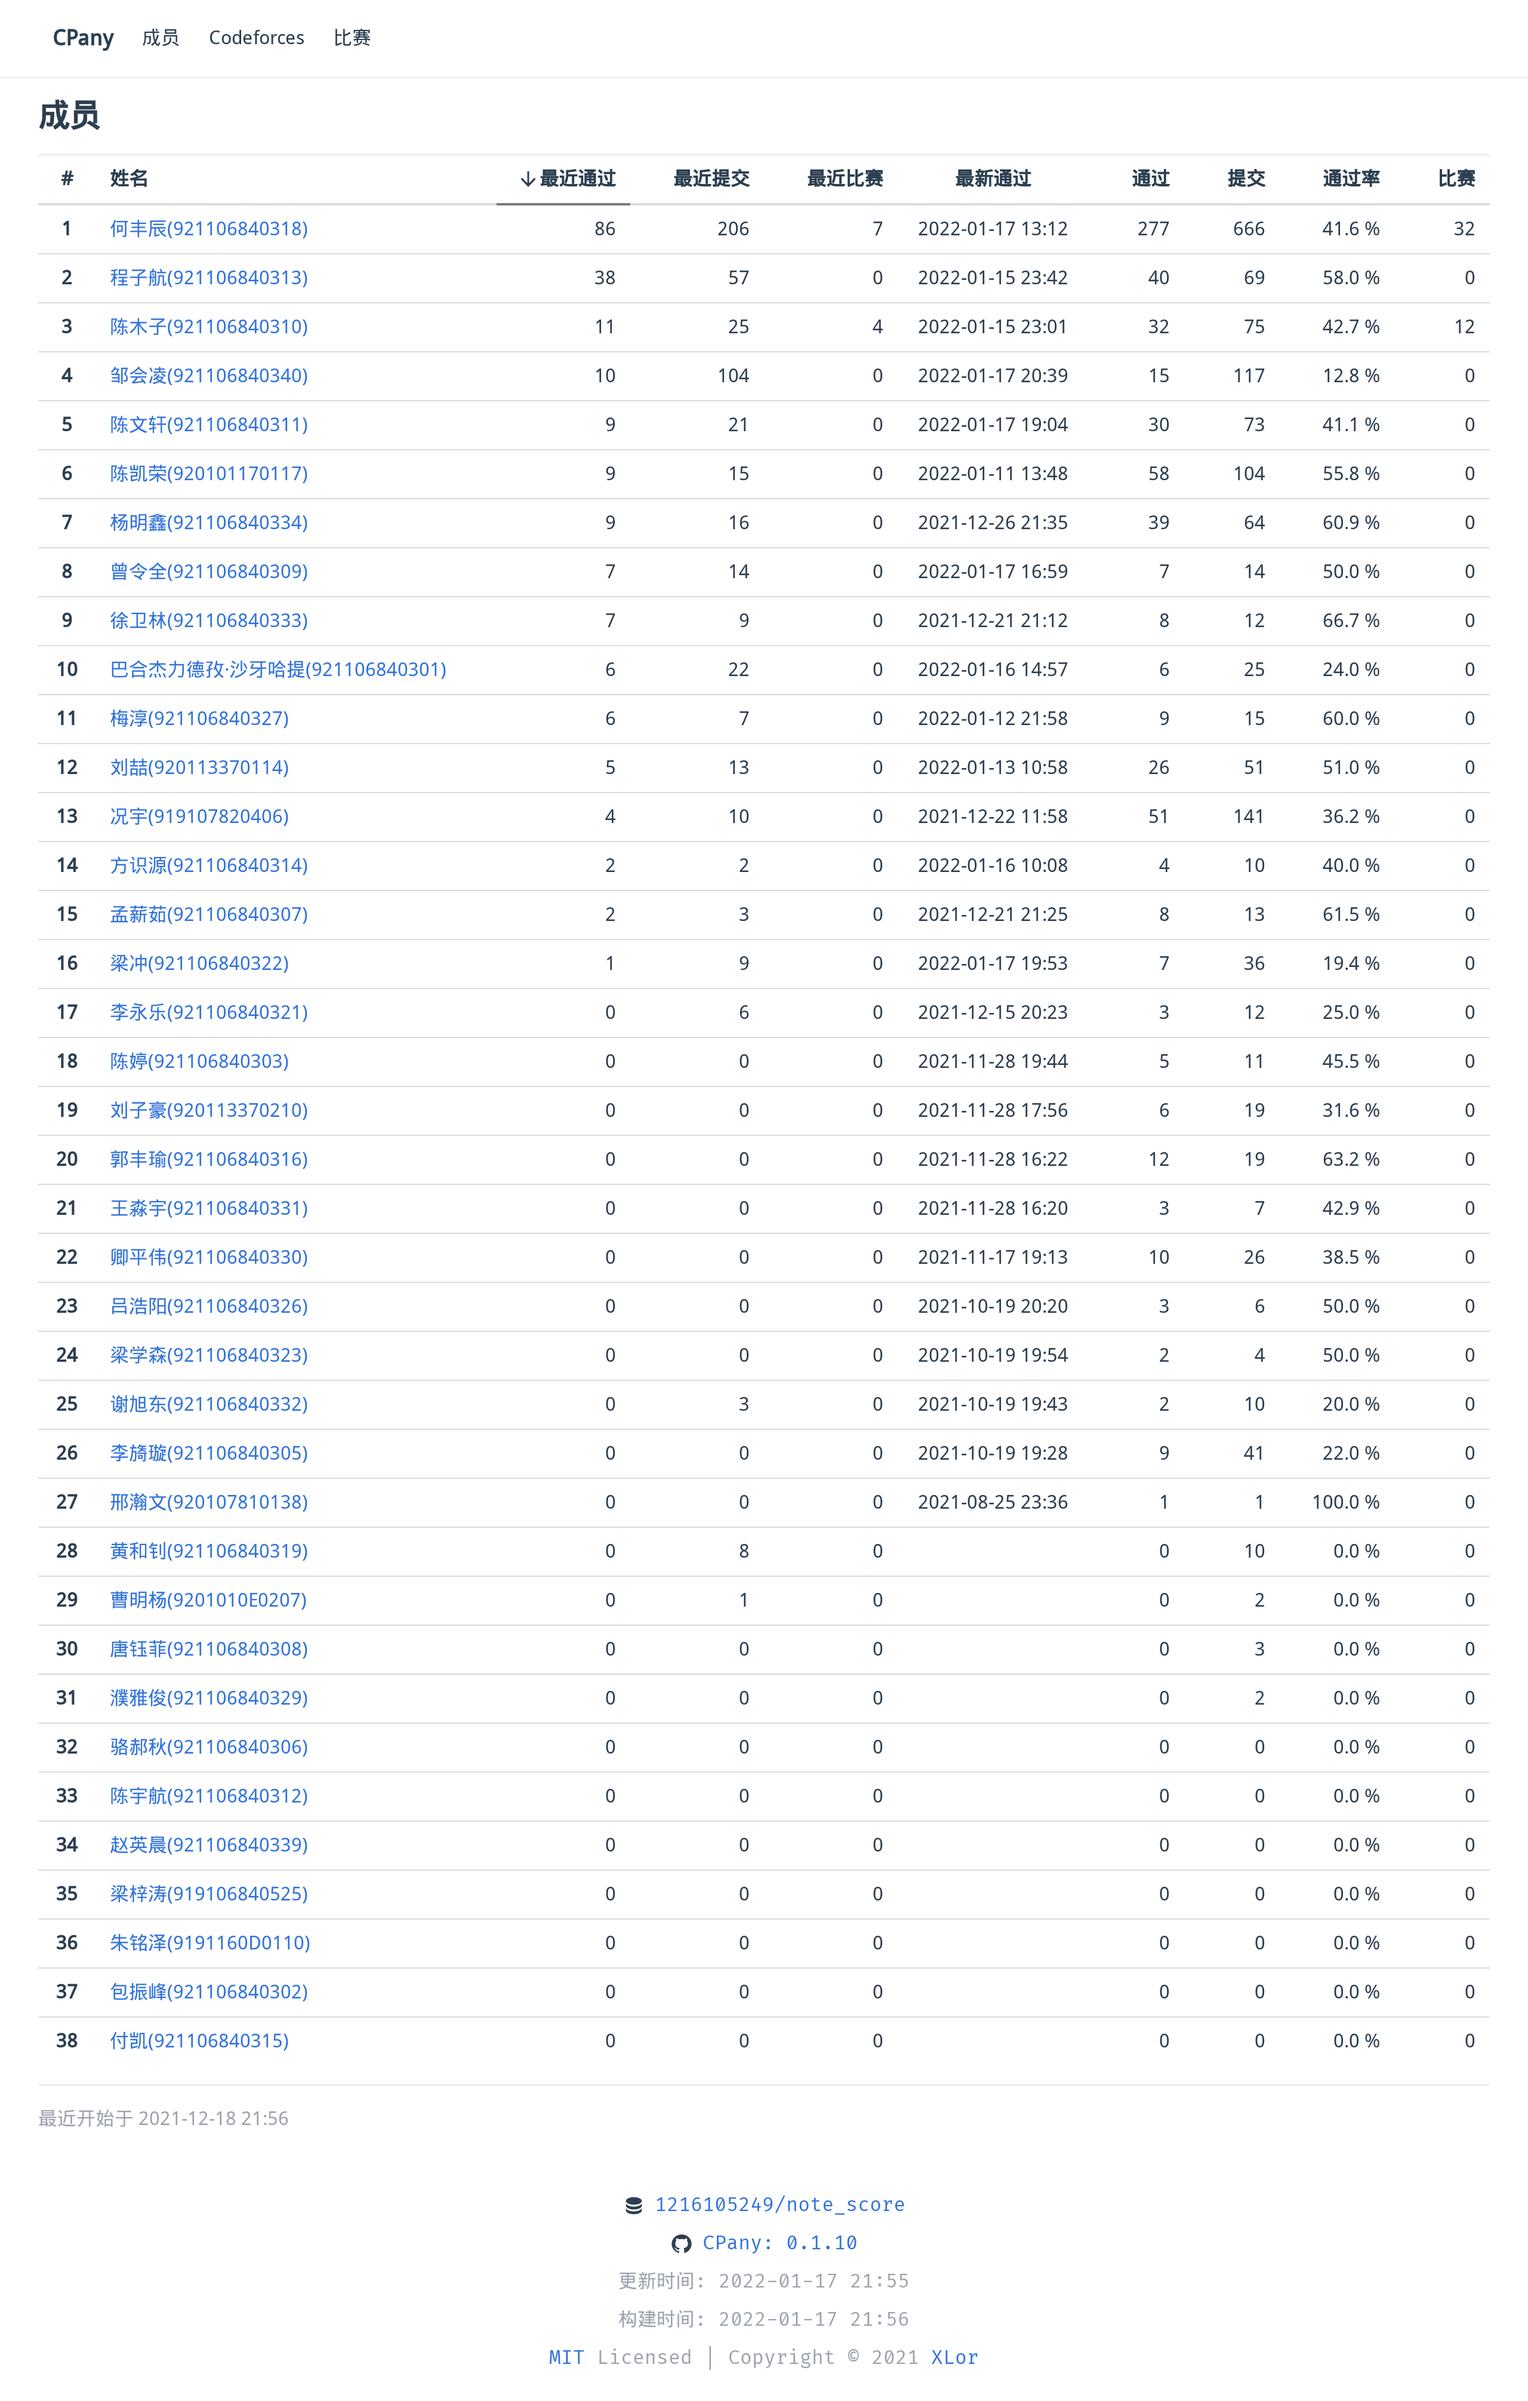
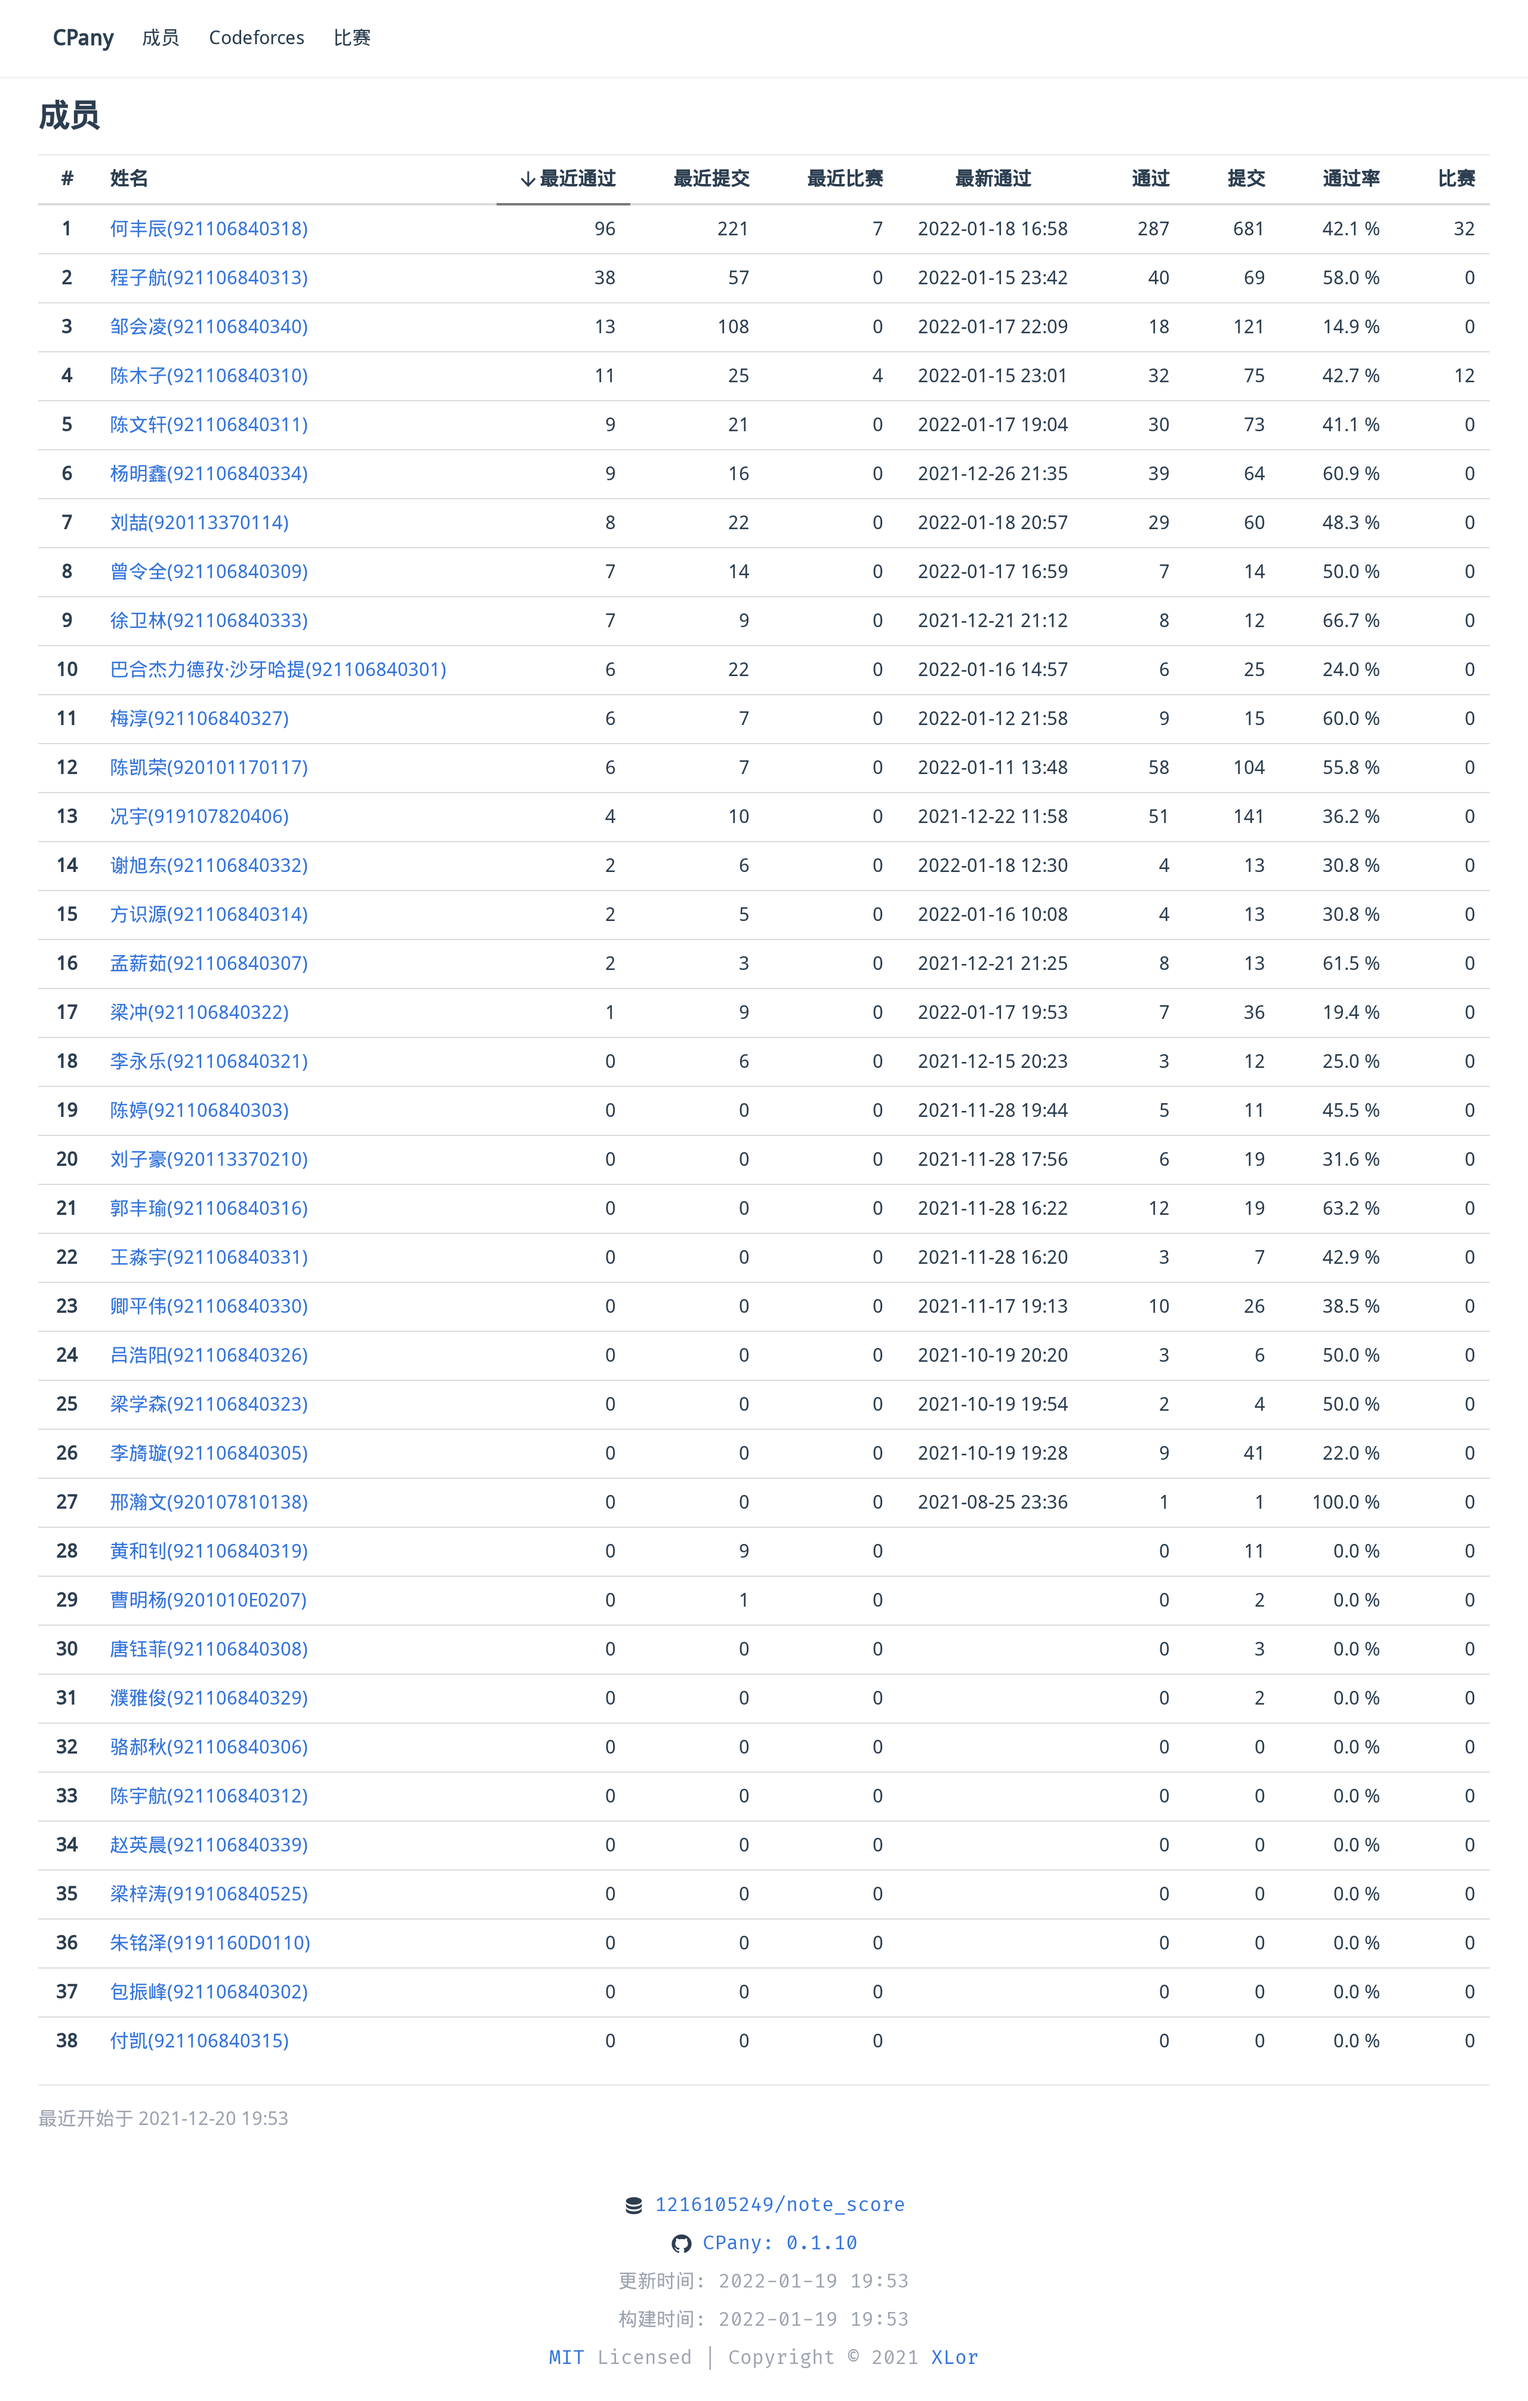
Fetch data on 2022-01-19 19:53

diff --git a/README.md b/README.md
@@ -3,7 +3,7 @@
 [![version](https://img.shields.io/npm/v/@cpany/cli?color=rgb%2850%2C203%2C86%29&label=CPany)](https://www.npmjs.com/package/@cpany/cli)
 
 <!-- START_SECTION: update_time -->
-更新时间：[2022-01-19 19:35](https://www.timeanddate.com/worldclock/fixedtime.html?msg=Fetch+data&iso=202201191642592124000193524&p1=237)
+更新时间：[2022-01-19 19:53](https://www.timeanddate.com/worldclock/fixedtime.html?msg=Fetch+data&iso=202201191642593218000195338&p1=237)
 <!-- END_SECTION: update_time -->
 
 ![members](./screenshot.png)
